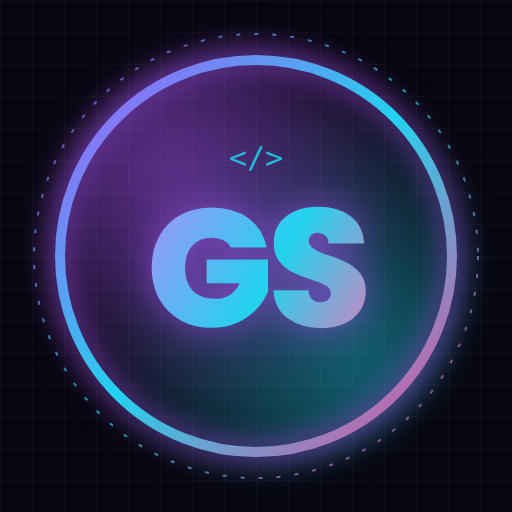
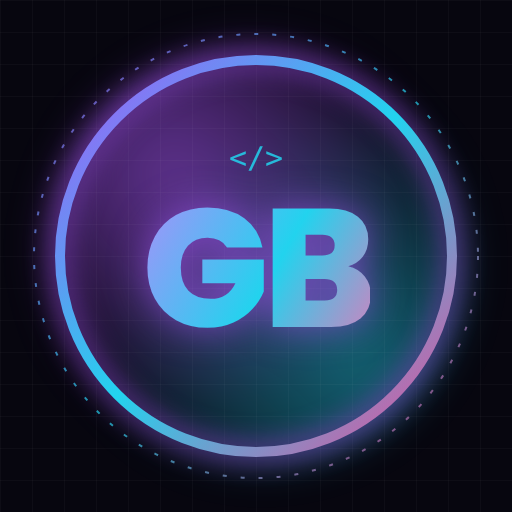
Atualiza Sobre mim, remove emojis e troca a marca para GB
- Nome completo, idade calculada a partir de 01/07/2004 (sobe todo
  dia 01/07) e texto novo: web e Android, IA no dia a dia e
  cibersegurança/hacking ético
- Novas habilidades (IA, Android/Kotlin, Cibersegurança) com ícones
- Nenhum emoji no site: frases, rodapé, contato e botões usam texto
  ou ícones SVG
- Frases mais fortes na seção de projetos e nos cards
- Logo e foto de perfil com as iniciais GB

Claude-Session: https://claude.ai/code/session_01Mq3UzCAcPYHDRJi1GNm2ai

diff --git a/index.html b/index.html
@@ -3,8 +3,8 @@
 <head>
   <meta charset="UTF-8" />
   <meta name="viewport" content="width=device-width, initial-scale=1.0" />
-  <title>Gustavo Santos | Projetos</title>
-  <meta name="description" content="Portfólio de Gustavo Santos — estudante de programação apaixonado por Python e tecnologia." />
+  <title>Gustavo Balieiro Borges | Projetos</title>
+  <meta name="description" content="Portfólio de Gustavo Balieiro Borges: desenvolvimento web e Android, Inteligência Artificial e cibersegurança." />
   <link rel="icon" href="assets/avatar.png" />
   <link rel="preconnect" href="https://fonts.googleapis.com" />
   <link rel="preconnect" href="https://fonts.gstatic.com" crossorigin />
@@ -43,7 +43,7 @@
   <div id="scroll-progress"></div>
 
   <header class="navbar">
-    <a href="#inicio" class="logo">&lt;GS /&gt;</a>
+    <a href="#inicio" class="logo">&lt;GB /&gt;</a>
     <nav>
       <a href="#sobre">Sobre</a>
       <a href="#habilidades">Habilidades</a>
@@ -57,10 +57,10 @@
     <section id="inicio" class="hero">
       <div class="avatar-wrap reveal">
         <div class="avatar-glow"></div>
-        <img src="assets/avatar.png" alt="Logo GS de Gustavo Santos" class="avatar" />
+        <img src="assets/avatar.png" alt="Logo GB de Gustavo Balieiro Borges" class="avatar" />
       </div>
-      <p class="hello reveal">Olá, mundo! 👋 Eu sou</p>
-      <h1 class="glitch reveal" data-text="Gustavo Santos">Gustavo Santos</h1>
+      <p class="hello reveal">&gt; whoami</p>
+      <h1 class="glitch reveal" data-text="Gustavo Balieiro Borges">Gustavo Balieiro Borges</h1>
       <h2 class="typing reveal">
         <span id="typed"></span><span class="caret">|</span>
       </h2>
@@ -77,18 +77,24 @@
       <div class="about-grid">
         <div class="about-text reveal">
           <p>
-            Sou o <strong>Gustavo Santos</strong>, tenho <strong>19 anos</strong> e moro em
-            <strong>Rio Verde, Goiás</strong> 🇧🇷. Sou apaixonado por tecnologia e estou
-            aprendendo programação, com foco principal em <span class="hl">Python</span>.
+            Sou o <strong>Gustavo Balieiro Borges</strong>, tenho <strong><span id="age">22</span> anos</strong>
+            e sou de <strong>Rio Verde, Goiás</strong>. Desenvolvo para <span class="hl">web e Android</span>:
+            sites, aplicativos e ferramentas que saem do papel e entram na rotina de quem usa,
+            do controle de diárias de um restaurante à contagem de estoque de uma loja.
           </p>
           <p>
-            Gosto de entender como as coisas funcionam por dentro e de transformar ideias
-            em código. Cada projeto aqui é um passo da minha jornada de aprendizado —
-            desde os primeiros scripts até páginas web como esta.
+            A <span class="hl">Inteligência Artificial</span> é parte do meu processo todos os dias.
+            Conheço a fundo como ela funciona e a uso para planejar, escrever, revisar e testar código.
+            Assim, uma ideia vira um produto funcionando em dias, não em meses.
           </p>
           <p>
-            Atualmente busco <span class="hl">oportunidades na área de programação em Python</span>,
-            onde eu possa aprender, crescer e contribuir com um time.
+            Minha próxima fronteira é a <span class="hl">cibersegurança</span>. Estudo hacking ético
+            para entender como sistemas são invadidos e, principalmente, como blindá-los. Quem sabe
+            atacar sabe defender.
+          </p>
+          <p>
+            Busco oportunidades em <strong>desenvolvimento web, Android e segurança da informação</strong>,
+            onde eu possa entregar resultado desde o primeiro dia.
           </p>
         </div>
         <div class="stats reveal">
@@ -117,40 +123,59 @@
       <h2 class="section-title reveal"><span class="num">02.</span> Habilidades</h2>
       <div class="skills">
         <div class="skill reveal">
-          <div class="skill-icon" data-icon="python"></div>
+          <div class="skill-icon" data-icon="ia"></div>
           <div class="skill-info">
-            <div class="skill-head"><span>Python</span><span class="skill-pct">70%</span></div>
-            <div class="bar"><div class="fill" data-width="70"></div></div>
+            <div class="skill-head"><span>Inteligência Artificial</span><span class="skill-pct">85%</span></div>
+            <div class="bar"><div class="fill" data-width="85"></div></div>
           </div>
         </div>
         <div class="skill reveal">
           <div class="skill-icon" data-icon="htmlcss"></div>
           <div class="skill-info">
-            <div class="skill-head"><span>HTML / CSS</span><span class="skill-pct">60%</span></div>
-            <div class="bar"><div class="fill" data-width="60"></div></div>
+            <div class="skill-head"><span>HTML / CSS</span><span class="skill-pct">70%</span></div>
+            <div class="bar"><div class="fill" data-width="70"></div></div>
           </div>
         </div>
         <div class="skill reveal">
           <div class="skill-icon" data-icon="javascript"></div>
           <div class="skill-info">
-            <div class="skill-head"><span>JavaScript</span><span class="skill-pct">45%</span></div>
-            <div class="bar"><div class="fill" data-width="45"></div></div>
+            <div class="skill-head"><span>JavaScript</span><span class="skill-pct">60%</span></div>
+            <div class="bar"><div class="fill" data-width="60"></div></div>
+          </div>
+        </div>
+        <div class="skill reveal">
+          <div class="skill-icon" data-icon="android"></div>
+          <div class="skill-info">
+            <div class="skill-head"><span>Android / Kotlin</span><span class="skill-pct">60%</span></div>
+            <div class="bar"><div class="fill" data-width="60"></div></div>
+          </div>
+        </div>
+        <div class="skill reveal">
+          <div class="skill-icon" data-icon="python"></div>
+          <div class="skill-info">
+            <div class="skill-head"><span>Python</span><span class="skill-pct">65%</span></div>
+            <div class="bar"><div class="fill" data-width="65"></div></div>
           </div>
         </div>
         <div class="skill reveal">
           <div class="skill-icon" data-icon="git"></div>
           <div class="skill-info">
-            <div class="skill-head"><span>Git / GitHub</span><span class="skill-pct">55%</span></div>
-            <div class="bar"><div class="fill" data-width="55"></div></div>
+            <div class="skill-head"><span>Git / GitHub</span><span class="skill-pct">60%</span></div>
+            <div class="bar"><div class="fill" data-width="60"></div></div>
+          </div>
+        </div>
+        <div class="skill reveal">
+          <div class="skill-icon" data-icon="seguranca"></div>
+          <div class="skill-info">
+            <div class="skill-head"><span>Cibersegurança</span><span class="skill-pct">40%</span></div>
+            <div class="bar"><div class="fill" data-width="40"></div></div>
           </div>
         </div>
       </div>
       <div class="marquee reveal">
         <div class="marquee-track">
-          <span>Python</span><span>✦</span><span>HTML</span><span>✦</span><span>CSS</span><span>✦</span>
-          <span>JavaScript</span><span>✦</span><span>Git</span><span>✦</span><span>GitHub</span><span>✦</span>
-          <span>Python</span><span>✦</span><span>HTML</span><span>✦</span><span>CSS</span><span>✦</span>
-          <span>JavaScript</span><span>✦</span><span>Git</span><span>✦</span><span>GitHub</span><span>✦</span>
+          <span>Inteligência Artificial</span><i class="sep"></i><span>Web</span><i class="sep"></i><span>Android</span><i class="sep"></i><span>Cibersegurança</span><i class="sep"></i><span>Hacking ético</span><i class="sep"></i><span>JavaScript</span><i class="sep"></i><span>Kotlin</span><i class="sep"></i><span>Python</span><i class="sep"></i>
+          <span>Inteligência Artificial</span><i class="sep"></i><span>Web</span><i class="sep"></i><span>Android</span><i class="sep"></i><span>Cibersegurança</span><i class="sep"></i><span>Hacking ético</span><i class="sep"></i><span>JavaScript</span><i class="sep"></i><span>Kotlin</span><i class="sep"></i><span>Python</span><i class="sep"></i>
         </div>
       </div>
     </section>
@@ -158,7 +183,7 @@
     <!-- Projetos -->
     <section id="projetos" class="section">
       <h2 class="section-title reveal"><span class="num">03.</span> Meus projetos</h2>
-      <p class="section-sub reveal">Carregados automaticamente do meu GitHub ✨</p>
+      <p class="section-sub reveal">Problemas reais, resolvidos com código. Cada projeto abaixo está em uso, ou a caminho disso.</p>
       <div class="filters reveal" id="filters"></div>
       <div class="projects" id="projects">
         <div class="skeleton"></div><div class="skeleton"></div><div class="skeleton"></div>
@@ -169,8 +194,8 @@
     <section id="contato" class="section contact">
       <h2 class="section-title reveal"><span class="num">04.</span> Contato</h2>
       <p class="contact-text reveal">
-        Estou aberto a oportunidades, parcerias e trocas de conhecimento.<br />
-        Me chama em qualquer uma das redes abaixo! 🚀
+        Tem um projeto, uma vaga ou um desafio? Vamos conversar.<br />
+        Respondo em qualquer uma das redes abaixo.
       </p>
       <div class="socials reveal">
         <a class="social magnetic" href="https://github.com/GustavoDSB1" target="_blank" rel="noopener" aria-label="GitHub">
@@ -194,16 +219,16 @@
   </main>
 
   <footer class="footer">
-    <p>Feito com 💜 por <strong>Gustavo Santos</strong> · <span id="year"></span></p>
+    <p>Desenvolvido por <strong>Gustavo Balieiro Borges</strong> · <span id="year"></span></p>
   </footer>
 
-  <button id="to-top" aria-label="Voltar ao topo">↑</button>
+  <button id="to-top" aria-label="Voltar ao topo" data-icon="seta-cima"></button>
 
   <!-- Tela de detalhes do projeto -->
   <div id="project-modal" class="modal" role="dialog" aria-modal="true" aria-labelledby="modal-title" hidden>
     <div class="modal-backdrop"></div>
     <div class="modal-panel">
-      <button class="modal-close" aria-label="Fechar">✕</button>
+      <button class="modal-close" aria-label="Fechar" data-icon="fechar"></button>
       <div class="modal-body"></div>
     </div>
   </div>

diff --git a/projects-data.js b/projects-data.js
@@ -9,7 +9,7 @@ const PROJECT_DETAILS = {
     updated: "2026-10-18",
     title: "App Diárias",
     icon: "diarias",
-    tagline: "App Android que substitui a planilha de diárias de um restaurante.",
+    tagline: "Aposentei a planilha de diárias de um restaurante: agora tudo cabe em um app Android que funciona até sem internet.",
     about: [
       "Antes, o controle das diárias dos funcionários era feito em uma planilha do Excel com várias abas: cadastro, uma aba por semana, painel, escala e resumo. Transformei tudo isso em um aplicativo de celular que funciona offline.",
       "O app segue as mesmas regras da planilha: o valor da diária vem da área de trabalho, e o que falta pagar é calculado como valor − consumo − pago. Ele também avisa quando uma diária parece duplicada e mostra a situação de cada pessoa (pago, pendente, quitada ou em aberto).",
@@ -38,7 +38,7 @@ const PROJECT_DETAILS = {
     updated: "2026-10-18",
     title: "Mundo dos Achadinhoz",
     icon: "sacola",
-    tagline: "Vitrine de achadinhos da Shopee mostrados nos vídeos do canal @mundo_achadinhoz.",
+    tagline: "A vitrine que transforma cada vídeo do @mundo_achadinhoz em uma oferta a um toque de distância.",
     about: [
       "Site do canal Mundo dos Achadinhoz, que mostra produtos úteis e baratos em vídeos curtos. Cada achadinho que aparece nos vídeos ganha um card na vitrine, do mais novo para o mais antigo.",
       "Na versão nova, o site ganhou um visual em tons pastel, com banner, cartão de perfil e links para Telegram, Instagram e YouTube. Também dá para buscar os achadinhos pelo nome, e um botão flutuante leva para o grupo de ofertas.",
@@ -68,7 +68,7 @@ const PROJECT_DETAILS = {
     updated: "2026-10-18",
     title: "Top Rio Verde",
     icon: "caminhao",
-    tagline: "Site institucional que desenvolvi para a Top Rio Verde, empresa de financiamento de veículos.",
+    tagline: "Site que desenvolvi para a Top Rio Verde: do primeiro clique ao consultor no WhatsApp em segundos.",
     about: [
       "A Top Rio Verde, de Rio Verde (GO), financia e refinancia caminhões a partir de 1986, ajuda quem vai comprar o primeiro caminhão e financia veículos leves a partir de 2002. A empresa é correspondente autorizado do Banco Daycoval.",
       "Fiz o site para apresentar esses serviços e levar o visitante direto para o WhatsApp de um consultor. O visual é escuro, em tons de azul, com animações de entrada, e o site está publicado no Cloudflare Pages.",
@@ -97,7 +97,7 @@ const PROJECT_DETAILS = {
     updated: "2026-10-18",
     title: "App Contagem de Estoque",
     icon: "estoque",
-    tagline: "App Android para contar o estoque produto por produto e gerar uma planilha Excel no final.",
+    tagline: "Contagem de estoque sem papel e sem erro: toque, some e saia com a planilha Excel pronta.",
     about: [
       "Aplicativo Android simples e visual para fazer a contagem de estoque. Cada produto tem nome e um ícone ou foto. É só tocar nele, digitar quanto contou e o app soma ao que já tinha. O topo mostra quantos produtos já foram contados e o total de itens.",
       "No final, o app gera uma planilha Excel (.xlsx) com a contagem e o histórico de lançamentos, pronta para mandar no WhatsApp, e-mail ou Drive. A planilha é montada pelo próprio app, sem bibliotecas externas. Ele também tem uma aba de Consumo para dar baixa no que funcionários e diaristas consumiram e enviar o resumo do dia no WhatsApp.",

diff --git a/script.js b/script.js
@@ -29,13 +29,22 @@ window.addEventListener("load", () => {
 
 document.getElementById("year").textContent = new Date().getFullYear();
 
+/* ---------- Idade: sobe 1 ano todo dia 01/07 ---------- */
+(function age() {
+  const BIRTH = { year: 2004, month: 7, day: 1 };
+  const now = new Date();
+  const hadBirthday =
+    now.getMonth() + 1 > BIRTH.month || (now.getMonth() + 1 === BIRTH.month && now.getDate() >= BIRTH.day);
+  document.getElementById("age").textContent = now.getFullYear() - BIRTH.year - (hadBirthday ? 0 : 1);
+})();
+
 /* ---------- Efeito de digitação ---------- */
 (function typing() {
   const phrases = [
-    "Estudante de programação 💻",
-    "Apaixonado por tecnologia 🚀",
-    "Desenvolvedor Python em formação 🐍",
-    "Sempre aprendendo algo novo 📚",
+    "Desenvolvedor Web & Android",
+    "IA no centro de cada projeto",
+    "Hacking ético e cibersegurança",
+    "Ideias que viram produtos reais",
   ];
   const el = document.getElementById("typed");
   let p = 0, c = 0, deleting = false;
@@ -287,7 +296,7 @@ function projectCard(repo, index) {
         <span>${icon("fork", "mini")} ${repo.forks_count}</span>
         <span>${icon("relogio", "mini")} ${updated}</span>
       </div>
-      <span class="project-more">Ver detalhes <b>→</b></span>
+      <span class="project-more">Ver detalhes ${icon("seta", "mini")}</span>
     </div>`;
   addTilt(card, 10);
 
@@ -352,7 +361,7 @@ function openProject(repo, origin) {
         <h4>Tecnologias</h4>
         <div class="modal-tech">${tech.map((t) => `<span>${escapeHTML(t)}</span>`).join("")}</div>` : ""}
 
-      ${d.note ? `<p class="modal-note">ℹ ${escapeHTML(d.note)}</p>` : ""}
+      ${d.note ? `<p class="modal-note">${icon("info", "mini")} ${escapeHTML(d.note)}</p>` : ""}
 
       <div class="modal-meta">
         <span>${icon("estrela", "mini")} ${repo.stargazers_count} estrelas</span>
@@ -500,7 +509,7 @@ function renderRepos(repos) {
   const grid = document.getElementById("projects");
   grid.innerHTML = "";
   if (!repos.length) {
-    grid.innerHTML = `<div class="error-box">Nenhum projeto público ainda. Em breve! 🚧</div>`;
+    grid.innerHTML = `<div class="error-box">Nenhum projeto público ainda. Os próximos já estão a caminho.</div>`;
     return;
   }
   repos.forEach((repo, i) => grid.appendChild(projectCard(repo, i)));

diff --git a/style.css b/style.css
@@ -329,7 +329,9 @@ a { color: inherit; text-decoration: none; }
   animation: marquee 22s linear infinite;
   font-family: "Fira Code", monospace; font-size: 1.6rem; font-weight: 600; color: rgba(255, 255, 255, .15);
 }
-.marquee-track span:nth-child(4n+1) { color: rgba(168, 85, 247, .5); }
+.marquee-track span:nth-of-type(2n+1) { color: rgba(168, 85, 247, .5); }
+.marquee-track { align-items: center; }
+.marquee-track .sep { width: 9px; height: 9px; transform: rotate(45deg); background: rgba(34, 211, 238, .35); flex: none; }
 @keyframes marquee { to { transform: translateX(-50%); } }
 
 /* ---------- Projetos ---------- */
@@ -415,8 +417,8 @@ a { color: inherit; text-decoration: none; }
   font-family: "Fira Code", monospace; font-size: .85rem; color: var(--cyan);
   display: inline-flex; gap: 6px; align-items: center;
 }
-.project-more b { transition: transform .3s; }
-.project:hover .project-more b { transform: translateX(6px); }
+.project-more .icon { stroke: var(--cyan); transition: transform .3s; }
+.project:hover .project-more .icon { transform: translateX(6px); }
 
 /* ---------- Tela de detalhes ---------- */
 body.modal-open { overflow: hidden; }
@@ -554,3 +556,8 @@ body.modal-open { overflow: hidden; }
   *, *::before, *::after { animation-duration: .01ms !important; animation-iteration-count: 1 !important; transition-duration: .01ms !important; }
   .reveal { opacity: 1; transform: none; filter: none; }
 }
+
+/* Botões com ícone */
+#to-top .icon, .modal-close .icon { width: 20px; height: 20px; margin: 0 auto; stroke-width: 4; filter: none; }
+#to-top .icon { stroke: #fff; }
+.modal-close .icon { stroke: currentColor; width: 16px; height: 16px; }

diff --git a/icons.js b/icons.js
@@ -60,12 +60,33 @@ const ICONS = {
     <circle cx="34" cy="20" r="4"/>
     <path d="M14 14v20M34 24c0 7-7 8-15 11"/>`,
 
+  ia: `
+    <rect x="12" y="12" width="24" height="24" rx="4"/>
+    <path d="M18 4v8M24 4v8M30 4v8M18 36v8M24 36v8M30 36v8M4 18h8M4 24h8M4 30h8M36 18h8M36 24h8M36 30h8"/>
+    <path d="M19 30l3.5-12h3L29 30M20.5 25.5h7"/>`,
+  android: `
+    <path d="M10 22a14 14 0 0 1 28 0v2H10z"/>
+    <path d="M14 8l4 6M34 8l-4 6"/>
+    <circle cx="19" cy="17" r="1.4" class="fill"/>
+    <circle cx="29" cy="17" r="1.4" class="fill"/>
+    <rect x="10" y="27" width="28" height="15" rx="4"/>`,
+  seguranca: `
+    <path d="M24 4 40 10v12c0 10-7 18-16 22C15 40 8 32 8 22V10z"/>
+    <rect x="17" y="21" width="14" height="11" rx="2"/>
+    <path d="M20 21v-3a4 4 0 0 1 8 0v3M24 25v3"/>`,
+
   // ----- Detalhes dos cards -----
   estrela: `<path d="M24 5l5.9 12 13.1 1.9-9.5 9.3 2.3 13.1L24 35l-11.8 6.3 2.3-13.1L5 18.9 18.1 17z"/>`,
   fork: `
     <circle cx="13" cy="9" r="4"/><circle cx="35" cy="9" r="4"/><circle cx="24" cy="39" r="4"/>
     <path d="M13 13v4c0 4 3 6 6 6h10c3 0 6-2 6-6v-4M24 23v12"/>`,
   relogio: `<circle cx="24" cy="24" r="18"/><path d="M24 13v11l7 5"/>`,
+  info: `<circle cx="24" cy="24" r="18"/><path d="M24 22v12"/><circle cx="24" cy="15" r="1.6" class="fill"/>`,
+
+  // ----- Interface -----
+  seta: `<path d="M8 24h30M28 13l11 11-11 11"/>`,
+  "seta-cima": `<path d="M24 40V10M13 20l11-11 11 11"/>`,
+  fechar: `<path d="M13 13l22 22M35 13 13 35"/>`,
 };
 
 /** Monta o SVG de um ícone. Nomes desconhecidos usam a pasta. */
